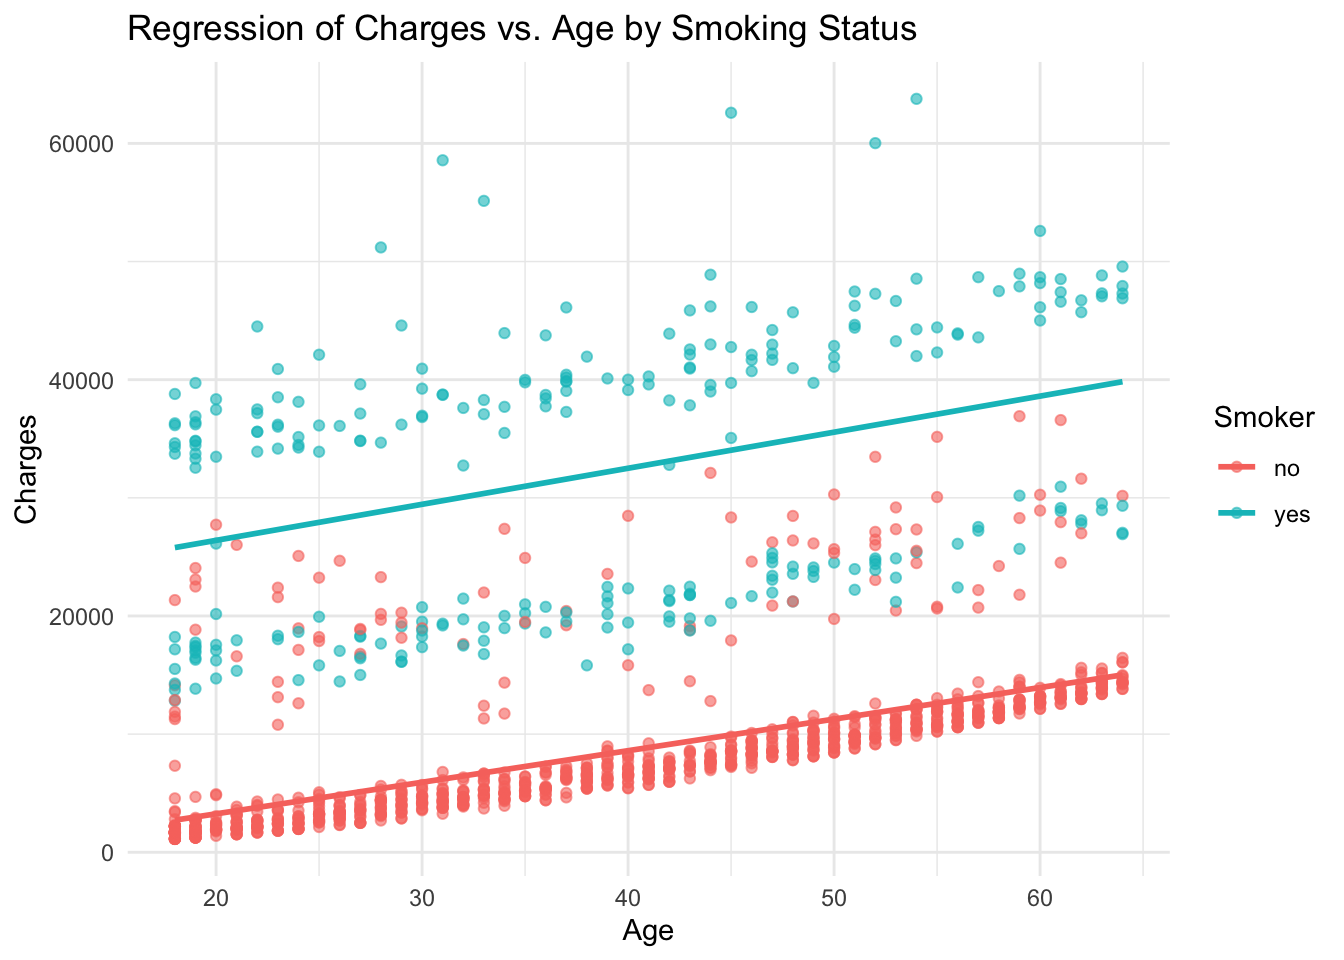
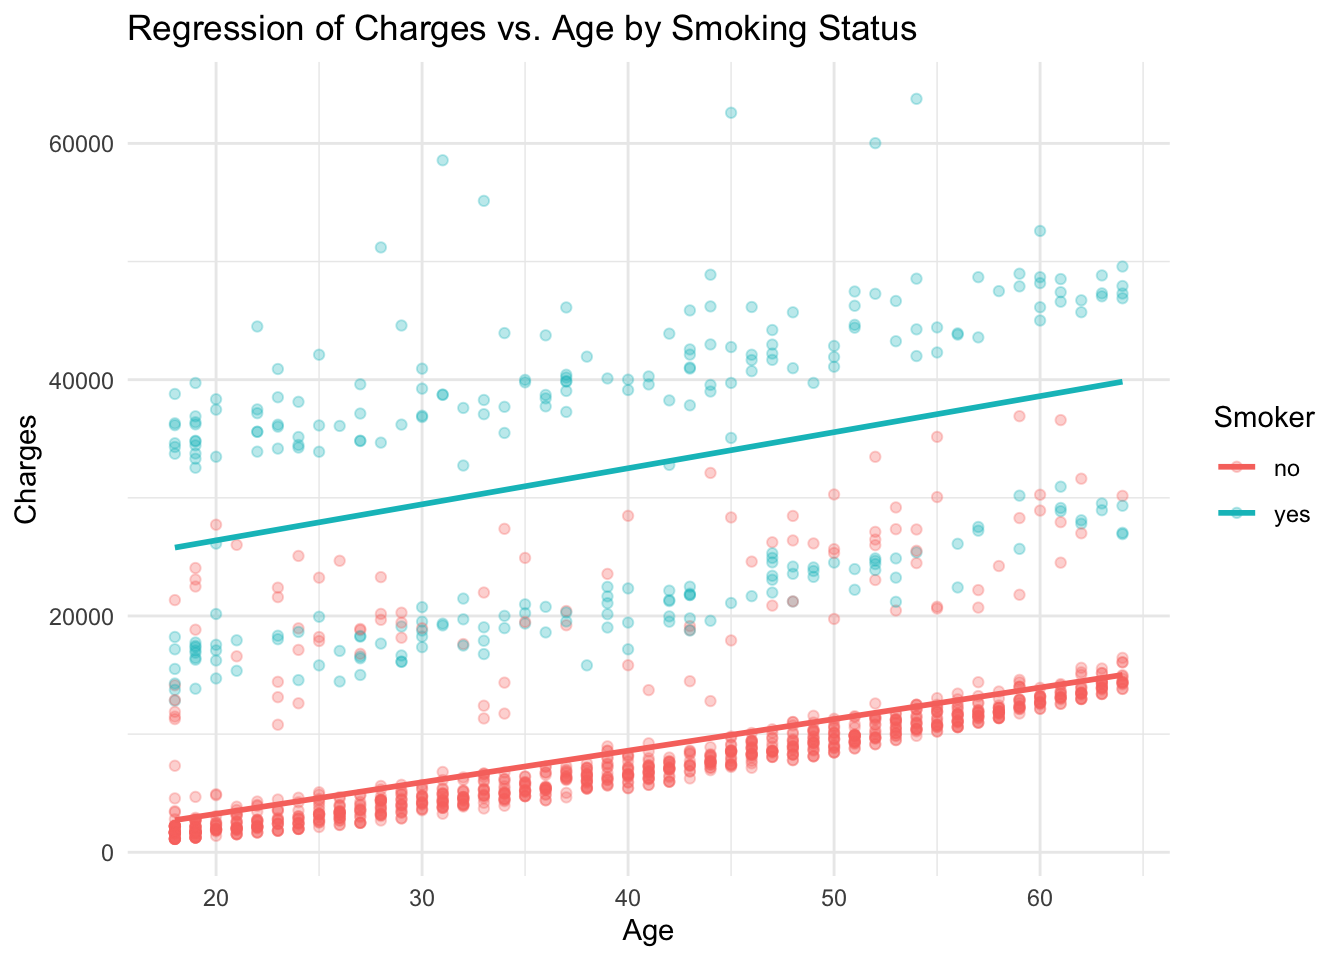
added analysis

diff --git a/docs/posts/code-post-2/index.html b/docs/posts/code-post-2/index.html
@@ -193,7 +193,10 @@ pre > code.sourceCode > span > a:first-child::before { text-decoration: underlin
 
 
 <p>This is a post with executable code.</p>
-<p>The data is from <a href="https://www.kaggle.com/datasets/willianoliveiragibin/healthcare-insurance/data" class="uri">https://www.kaggle.com/datasets/willianoliveiragibin/healthcare-insurance/data</a></p>
+<p>The data is from <a href="https://www.kaggle.com/datasets/willianoliveiragibin/healthcare-insurance/data" class="uri">https://www.kaggle.com/datasets/willianoliveiragibin/healthcare-insurance/dat</a>a</p>
+<p>The code demonstrates that health insurance expenditures increase as age increases. This is true for smokers and non smokers. Each additional year of age increases the health expenditure.</p>
+<p>However, the difference between smoking and non smoking is pronounced. While the scatterplot shows that some individual smokers have lower healthcare costs than some individual nonsmokers, overall the average expenditure is much, much higher for smokers. It is so much higher that the average 20 year old smoker has more healthcare expenditure than the average 60 year old nonsmoker.</p>
+<p>This dataset illustrates the massive negative impacts of smoking on health via the monetary impact of health insurance spending.</p>
 <div class="cell">
 <div class="sourceCode cell-code" id="cb1"><pre class="sourceCode r code-with-copy"><code class="sourceCode r"><span id="cb1-1"><a href="#cb1-1" aria-hidden="true" tabindex="-1"></a><span class="co"># load in the data</span></span>
 <span id="cb1-2"><a href="#cb1-2" aria-hidden="true" tabindex="-1"></a>data <span class="ot">&lt;-</span> <span class="fu">read.csv</span>(<span class="st">"data/insurance 2.csv"</span>)</span>
@@ -227,7 +230,7 @@ Attaching package: 'dplyr'</code></pre>
 <span id="cb7-3"><a href="#cb7-3" aria-hidden="true" tabindex="-1"></a><span class="co"># scatterplot by age and healthcare expenditure</span></span>
 <span id="cb7-4"><a href="#cb7-4" aria-hidden="true" tabindex="-1"></a><span class="co"># two linear regression lines by smoking status</span></span>
 <span id="cb7-5"><a href="#cb7-5" aria-hidden="true" tabindex="-1"></a><span class="fu">ggplot</span>(data, <span class="fu">aes</span>(<span class="at">x =</span> age, <span class="at">y =</span> charges, <span class="at">color =</span> smoker)) <span class="sc">+</span></span>
-<span id="cb7-6"><a href="#cb7-6" aria-hidden="true" tabindex="-1"></a>  <span class="fu">geom_point</span>(<span class="at">alpha =</span> <span class="fl">0.6</span>) <span class="sc">+</span></span>
+<span id="cb7-6"><a href="#cb7-6" aria-hidden="true" tabindex="-1"></a>  <span class="fu">geom_point</span>(<span class="at">alpha =</span> <span class="fl">0.3</span>) <span class="sc">+</span></span>
 <span id="cb7-7"><a href="#cb7-7" aria-hidden="true" tabindex="-1"></a>  <span class="fu">geom_smooth</span>(<span class="at">method =</span> <span class="st">"lm"</span>, <span class="at">se =</span> <span class="cn">FALSE</span>) <span class="sc">+</span></span>
 <span id="cb7-8"><a href="#cb7-8" aria-hidden="true" tabindex="-1"></a>  <span class="fu">labs</span>(<span class="at">title =</span> <span class="st">"Regression of Charges vs. Age by Smoking Status"</span>,</span>
 <span id="cb7-9"><a href="#cb7-9" aria-hidden="true" tabindex="-1"></a>       <span class="at">x =</span> <span class="st">"Age"</span>,</span>

diff --git a/docs/index.html b/docs/index.html
@@ -205,7 +205,7 @@ window.Quarto = {
 
 <div class="quarto-listing quarto-listing-container-default" id="listing-listing">
 <div class="list quarto-listing-default">
-<div class="quarto-post image-right" data-index="0" data-categories="health,insurance,smoking,code,analysis" data-listing-date-sort="1733983200000" data-listing-file-modified-sort="1734063162675" data-listing-date-modified-sort="NaN" data-listing-reading-time-sort="1" data-listing-word-count-sort="91">
+<div class="quarto-post image-right" data-index="0" data-categories="health,insurance,smoking,code,analysis" data-listing-date-sort="1733983200000" data-listing-file-modified-sort="1734066241442" data-listing-date-modified-sort="NaN" data-listing-reading-time-sort="1" data-listing-word-count-sort="194">
 <div class="thumbnail">
 <p><a href="./posts/code-post-2/index.html" class="no-external"></a></p><a href="./posts/code-post-2/index.html" class="no-external">
 <p><img loading="lazy" src="./posts/code-post-2/image.jpg" class="thumbnail-image"></p>
@@ -250,7 +250,7 @@ Erik Kruse
 </a>
 </div>
 </div>
-<div class="quarto-post image-right" data-index="1" data-categories="health,heart rate,workout,gym,code,analysis" data-listing-date-sort="1733983200000" data-listing-file-modified-sort="1734063109434" data-listing-date-modified-sort="NaN" data-listing-reading-time-sort="1" data-listing-word-count-sort="101">
+<div class="quarto-post image-right" data-index="1" data-categories="health,heart rate,workout,gym,code,analysis" data-listing-date-sort="1733983200000" data-listing-file-modified-sort="1734066243203" data-listing-date-modified-sort="NaN" data-listing-reading-time-sort="2" data-listing-word-count-sort="225">
 <div class="thumbnail">
 <p><a href="./posts/code-post-1/index.html" class="no-external"></a></p><a href="./posts/code-post-1/index.html" class="no-external">
 <p><img loading="lazy" src="./posts/code-post-1/image.jpg" class="thumbnail-image"></p>
@@ -298,7 +298,7 @@ Erik Kruse
 </a>
 </div>
 </div>
-<div class="quarto-post image-right" data-index="2" data-categories="intro" data-listing-date-sort="1733724000000" data-listing-file-modified-sort="1734041455118" data-listing-date-modified-sort="NaN" data-listing-reading-time-sort="1" data-listing-word-count-sort="83">
+<div class="quarto-post image-right" data-index="2" data-categories="intro" data-listing-date-sort="1733724000000" data-listing-file-modified-sort="1734064260384" data-listing-date-modified-sort="NaN" data-listing-reading-time-sort="1" data-listing-word-count-sort="83">
 <div class="thumbnail">
 <p><a href="./posts/about-me/index.html" class="no-external"></a></p><a href="./posts/about-me/index.html" class="no-external">
 <p class="card-img-top"><img src="posts/about-me/images/clipboard-4234018350.png"  class="thumbnail-image card-img"/></p>

diff --git a/docs/posts/code-post-1/index.html b/docs/posts/code-post-1/index.html
@@ -195,6 +195,9 @@ pre > code.sourceCode > span > a:first-child::before { text-decoration: underlin
 
 <p>This is a post with executable code.</p>
 <p>The data is from <a href="https://www.kaggle.com/datasets/valakhorasani/gym-members-exercise-dataset/data" class="uri">https://www.kaggle.com/datasets/valakhorasani/gym-members-exercise-dataset/data</a></p>
+<p>The dataset shows that individuals that do Cardio and Yoga have slightly lower resting heart rates compared to those that do HIIT and Strength training. This could be due to the calming effects of Yoga, and the aerobic conditioning effects of cardio.</p>
+<p>The maximum heart rate achieved was lowest for strength, followed by cardio, then HIIT, with the highest being for Yoga. This surprised me, since I would’ve assumed that cardio and HIIT would have the highest maximum heart rate. It is possible that yoga involves a small burst of activity that raises the heart rate to a higher maximum compared to cardio which may be more consistent, or that people choosing to do Yoga have different underlying characteristics.</p>
+<p>However, the overall differences between groups were small.</p>
 <div class="cell">
 <div class="sourceCode cell-code" id="cb1"><pre class="sourceCode r code-with-copy"><code class="sourceCode r"><span id="cb1-1"><a href="#cb1-1" aria-hidden="true" tabindex="-1"></a>data <span class="ot">&lt;-</span> <span class="fu">read.csv</span>(<span class="st">"data/gym_data.csv"</span>)</span>
 <span id="cb1-2"><a href="#cb1-2" aria-hidden="true" tabindex="-1"></a><span class="fu">head</span>(data)</span></code><button title="Copy to Clipboard" class="code-copy-button"><i class="bi"></i></button></pre></div>
